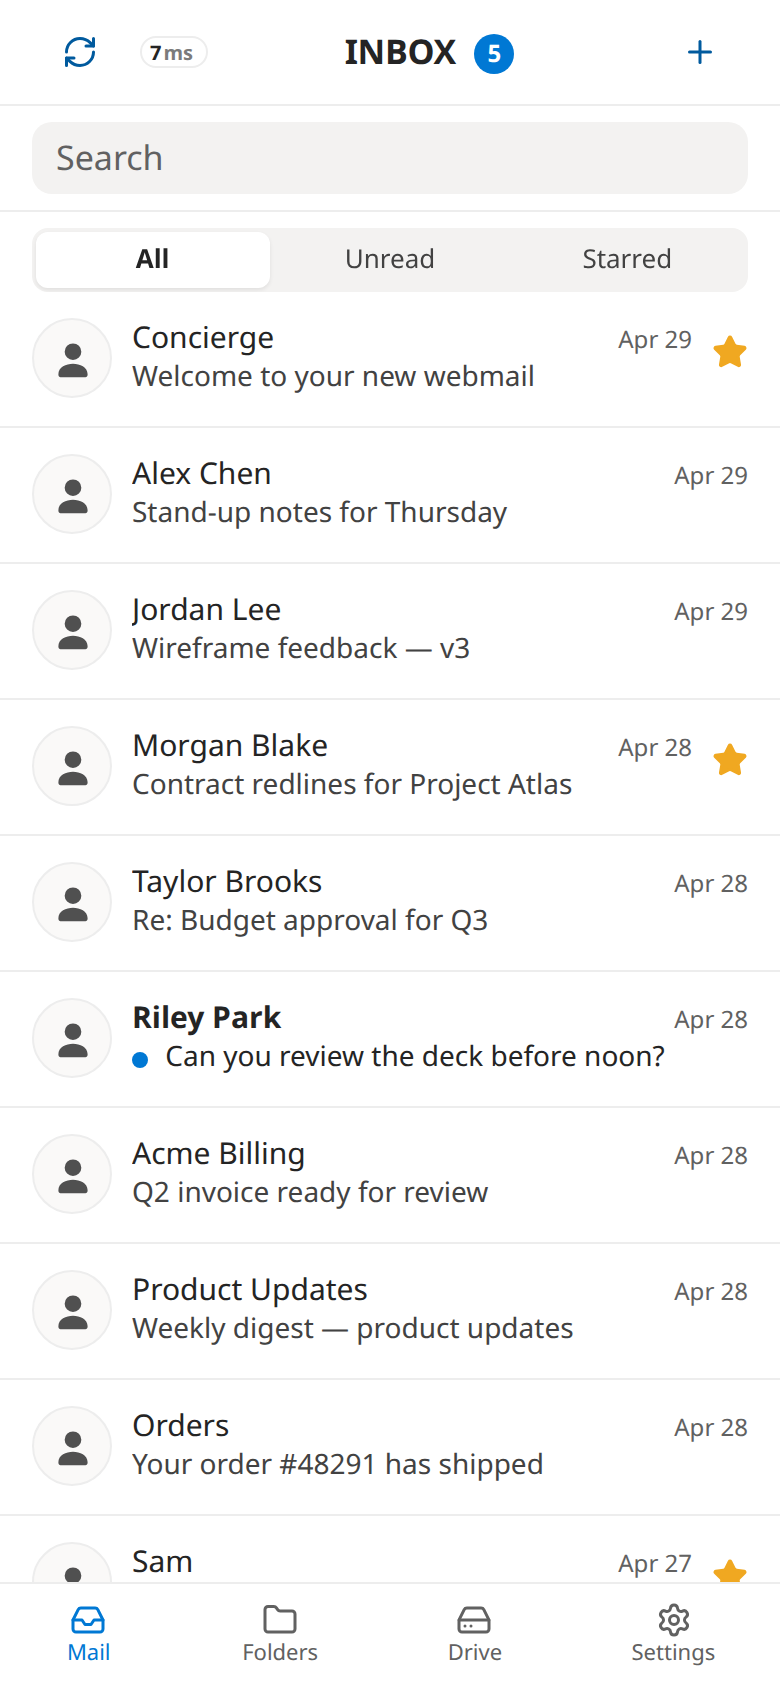
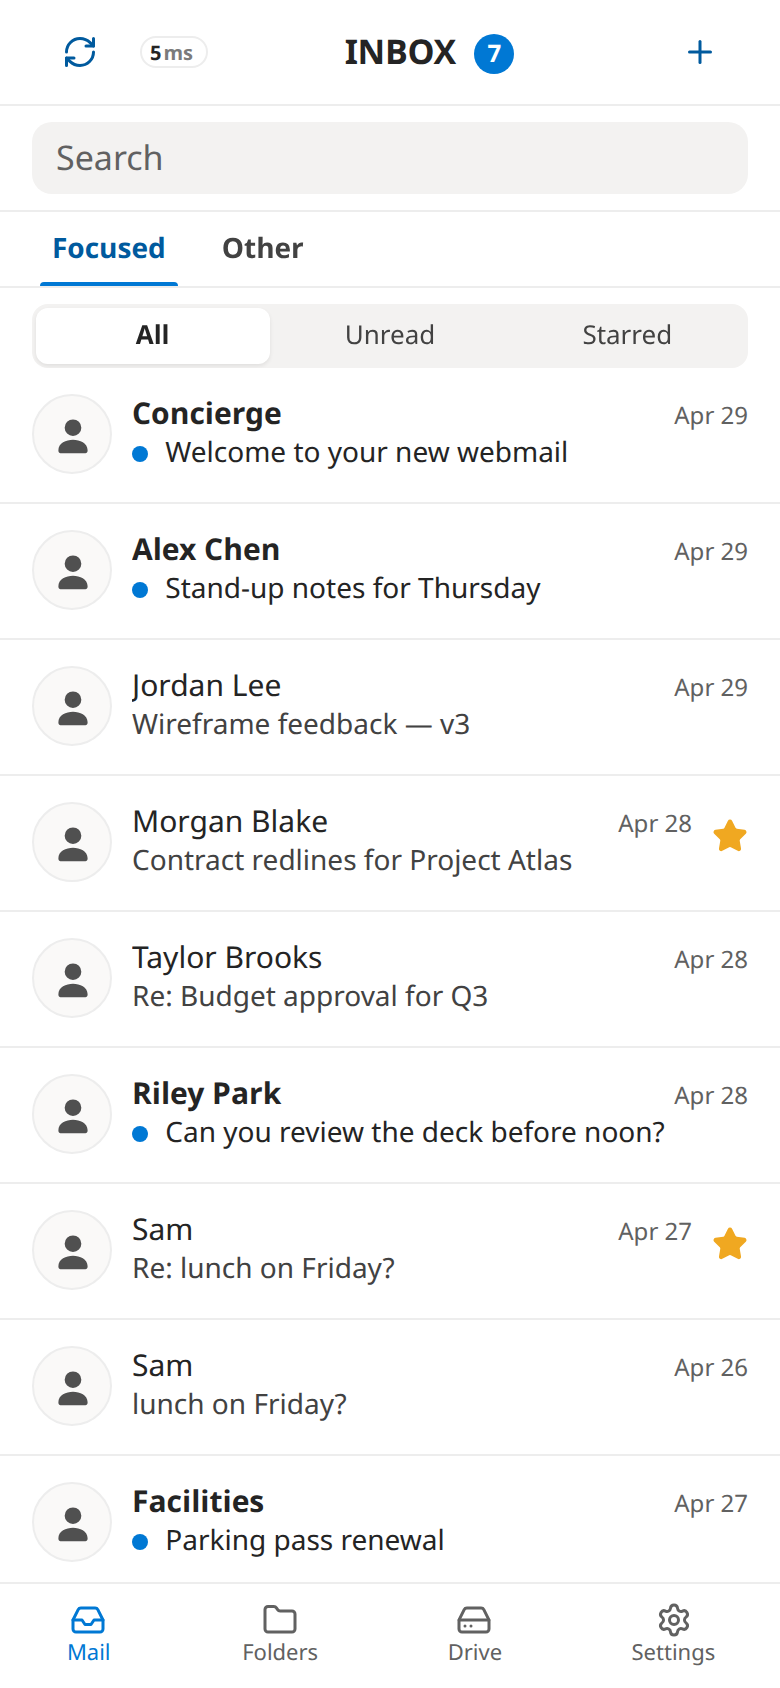
Outlook parity slice 19: mobile Focused/Other inbox tabs (#106)
* Outlook parity slice 19: mobile Focused/Other inbox tabs

Wire focused-inbox filtering into mobile InboxView with OWA-style tabs,
shared inboxTab setting, row test ids, Settings copy, e2e tests, and docs screenshot.

* Merge outlook-clone and refresh slice 19 docs/screenshots

Keep slice 18 follow-up flag work from outlook-clone; restore slice 19
README/OUTLOOK-PARITY/docs-screenshots entries; regenerate mobile inbox
and slice19 asset PNGs from Playwright mocks only.

---------

diff --git a/webmail/src/mobile/components/InboxView.svelte b/webmail/src/mobile/components/InboxView.svelte
@@ -16,7 +16,8 @@
     } from '../../lib/api';
     import { formatDate, senderShort, isTrackingEmail } from '../../lib/format';
     import { sortInboxClient, type InboxSortRanking } from '../../lib/sort-inbox-client';
-    import { settings } from '../../lib/settings.svelte';
+    import { settings, setInboxTab, isVipAddress } from '../../lib/settings.svelte';
+    import { filterMessagesByInboxTab } from '../../lib/focused-inbox';
     import Icon from '../../components/Icon.svelte';
     import Avatar from '../../components/Avatar.svelte';
     import SwipeableRow from './SwipeableRow.svelte';
@@ -413,6 +414,9 @@
         let base = mobileState.messages;
         if (f === 'unread') base = mobileState.messages.filter((m) => !m.flags.includes('\\Seen'));
         else if (f === 'starred') base = mobileState.messages.filter((m) => m.flags.includes('\\Flagged'));
+        if (showInboxTabs) {
+            base = filterMessagesByInboxTab(base, settings.inboxTab, { isVip: isVipAddress });
+        }
         if (f !== 'ai-sorted' || aiRankings.length === 0) return base;
         const indexFor = new Map<number, number>();
         aiRankings.forEach((r, i) => indexFor.set(r.uid, i));
@@ -432,6 +436,12 @@
 
     const currentFolder = $derived(
         mobileState.mailboxes.find((m) => m.path === mobileState.selectedPath)
+    );
+
+    const showInboxTabs = $derived(
+        !(mobileState.search || '').trim()
+        && mobileState.searchScope !== 'all'
+        && (mobileState.selectedPath || '').toUpperCase() === 'INBOX'
     );
 
     const unreadCount = $derived(
@@ -572,6 +582,27 @@
         </div>
     {/if}
 
+    {#if showInboxTabs}
+        <nav class="inbox-tabs" aria-label="Inbox view" data-testid="inbox-tabs">
+            <button
+                type="button"
+                class="inbox-tab"
+                class:active={settings.inboxTab === 'focused'}
+                aria-pressed={settings.inboxTab === 'focused'}
+                onclick={() => setInboxTab('focused')}
+                data-testid="inbox-tab-focused"
+            >Focused</button>
+            <button
+                type="button"
+                class="inbox-tab"
+                class:active={settings.inboxTab === 'other'}
+                aria-pressed={settings.inboxTab === 'other'}
+                onclick={() => setInboxTab('other')}
+                data-testid="inbox-tab-other"
+            >Other</button>
+        </nav>
+    {/if}
+
     <div class="segments" style="margin: 8px 16px 0;">
         {#each (settings.aiFeatures ? ['all','unread','starred','ai-sorted'] : ['all','unread','starred']) as f}
             <button
@@ -615,6 +646,24 @@
                 <p>{mobileState.messagesError}</p>
                 <button class="mbtn mbtn-secondary" onclick={() => refreshMessages(true)}>Retry</button>
             </div>
+        {:else if !mobileState.messagesLoading && filtered.length === 0 && showInboxTabs && mobileState.messages.length > 0}
+            <div class="mempty" data-testid="inbox-tab-empty">
+                <Icon name="inbox" size={40} />
+                <p>
+                    {#if settings.inboxTab === 'other'}
+                        Nothing in <strong>Other</strong> right now. Newsletters and bulk mail land here.
+                    {:else}
+                        Nothing in <strong>Focused</strong> right now.
+                    {/if}
+                </p>
+                <button
+                    type="button"
+                    class="mbtn mbtn-secondary"
+                    onclick={() => setInboxTab(settings.inboxTab === 'focused' ? 'other' : 'focused')}
+                >
+                    Switch to {settings.inboxTab === 'focused' ? 'Other' : 'Focused'}
+                </button>
+            </div>
         {:else if !mobileState.messagesLoading && mobileState.messages.length === 0}
             <div class="mempty">
                 <Icon name="inbox" size={40} />
@@ -651,7 +700,19 @@
                     leftColor="var(--danger)"
                 >
                     {@const isFresh = (() => { const t = Date.parse(msg.internalDate || msg.envelope.date || ''); return !Number.isNaN(t) && (Date.now() - t < 10 * 60 * 1000); })()}
-                    <div class="msg-row" class:unread={isUnread} class:fresh={isFresh} class:spy-tracked={isTracked} class:danger-1={dlevel === 1} class:danger-2={dlevel === 2} class:danger-3={dlevel === 3} class:danger-4={dlevel === 4} class:rule-running={ruleAnimUids.has(msg.uid)} class:rule-popping={ruleDoneUids.has(msg.uid)}>
+                    <div
+                        class="msg-row"
+                        data-testid={`msg-row-${msg.uid}`}
+                        class:unread={isUnread}
+                        class:fresh={isFresh}
+                        class:spy-tracked={isTracked}
+                        class:danger-1={dlevel === 1}
+                        class:danger-2={dlevel === 2}
+                        class:danger-3={dlevel === 3}
+                        class:danger-4={dlevel === 4}
+                        class:rule-running={ruleAnimUids.has(msg.uid)}
+                        class:rule-popping={ruleDoneUids.has(msg.uid)}
+                    >
                         <Avatar {email} {name} size={40} />
                         <div class="msg-body">
                             <div class="msg-top">
@@ -712,6 +773,42 @@
         flex-direction: column;
         min-height: 0;
         overflow: hidden;
+    }
+    .inbox-tabs {
+        flex: 0 0 auto;
+        display: flex;
+        gap: 0;
+        padding: 0 12px;
+        border-bottom: 1px solid var(--border-subtle);
+        background: var(--bg-surface);
+    }
+    .inbox-tab {
+        position: relative;
+        padding: 10px 14px 8px;
+        border: none;
+        background: transparent;
+        font: inherit;
+        font-size: 14px;
+        font-weight: 600;
+        color: var(--text-secondary);
+        cursor: pointer;
+        border-radius: 0;
+    }
+    .inbox-tab:active {
+        background: color-mix(in srgb, var(--accent) 8%, transparent);
+    }
+    .inbox-tab.active {
+        color: var(--accent-text);
+    }
+    .inbox-tab.active::after {
+        content: '';
+        position: absolute;
+        left: 8px;
+        right: 8px;
+        bottom: 0;
+        height: 2px;
+        border-radius: 2px 2px 0 0;
+        background: var(--accent);
     }
     .header-left {
         display: inline-flex;

diff --git a/webmail/test/e2e/outlook-mobile-focused-inbox.spec.ts b/webmail/test/e2e/outlook-mobile-focused-inbox.spec.ts
@@ -1,0 +1,63 @@
+import { test, expect } from '@playwright/test';
+import { mkdirSync } from 'node:fs';
+import { applyMocks, MOCK_USER, MOCK_PASS } from './fixtures';
+
+const SCREEN_DIR = 'test/screenshots';
+const ASSET_DIR = 'docs/assets/outlook-slice19';
+mkdirSync(SCREEN_DIR, { recursive: true });
+mkdirSync(ASSET_DIR, { recursive: true });
+
+async function loginMobile(page: import('@playwright/test').Page) {
+    await page.goto('/webmail/mobile/');
+    await page.waitForLoadState('networkidle');
+    await page.fill('input[type="email"]', MOCK_USER);
+    await page.fill('input[type="password"]', MOCK_PASS);
+    await page.click('button:has-text("Sign in")');
+    await expect(page.locator('.mheader h1:has-text("INBOX")')).toBeVisible();
+}
+
+test.beforeEach(async ({ page }) => {
+    await page.setViewportSize({ width: 390, height: 844 });
+    await applyMocks(page);
+});
+
+test('mobile INBOX shows Focused and Other tabs', async ({ page }) => {
+    await page.addInitScript(() => {
+        localStorage.setItem('webmail.theme', 'light');
+        localStorage.setItem('webmail.settings.v1', JSON.stringify({
+            aiFeatures: false,
+            density: 'comfortable',
+            listFilter: 'all',
+            inboxTab: 'focused',
+            useCustomLlm: false,
+            llm: { kind: 'openai', preset: '', apiKey: '', baseUrl: '', model: '' }
+        }));
+    });
+
+    await loginMobile(page);
+    await expect(page.getByTestId('inbox-tabs')).toBeVisible();
+    await expect(page.getByTestId('inbox-tab-focused')).toHaveClass(/active/);
+
+    await expect(page.getByTestId('msg-row-1001')).toBeVisible();
+    await expect(page.getByTestId('msg-row-999')).toBeVisible();
+    await expect(page.getByTestId('msg-row-1000')).not.toBeVisible();
+
+    await page.screenshot({ path: `${SCREEN_DIR}/48-mobile-inbox-focused-tab.png`, fullPage: true });
+    await page.screenshot({ path: `${ASSET_DIR}/48-mobile-inbox-focused-tab.png`, fullPage: true });
+
+    await page.getByTestId('inbox-tab-other').click();
+    await expect(page.getByTestId('inbox-tab-other')).toHaveClass(/active/);
+    await expect(page.getByTestId('msg-row-1000')).toBeVisible();
+    await expect(page.getByTestId('msg-row-1001')).not.toBeVisible();
+
+    await page.screenshot({ path: `${SCREEN_DIR}/49-mobile-inbox-other-tab.png`, fullPage: true });
+    await page.screenshot({ path: `${ASSET_DIR}/49-mobile-inbox-other-tab.png`, fullPage: true });
+});
+
+test('mobile Focused/Other tabs hide outside INBOX', async ({ page }) => {
+    await page.addInitScript(() => localStorage.setItem('webmail.theme', 'light'));
+    await loginMobile(page);
+    await page.locator('.nav-item:has-text("Folders")').click();
+    await page.locator('.ios-row').filter({ hasText: 'Sent' }).first().click();
+    await expect(page.getByTestId('inbox-tabs')).toHaveCount(0);
+});

diff --git a/webmail/test/e2e/docs-screenshots.spec.ts b/webmail/test/e2e/docs-screenshots.spec.ts
@@ -26,7 +26,8 @@ const ASSET15 = 'docs/assets/outlook-slice15';
 const ASSET16 = 'docs/assets/outlook-slice16';
 const ASSET17 = 'docs/assets/outlook-slice17';
 const ASSET18 = 'docs/assets/outlook-slice18';
-for (const d of [DOCS, ASSET1, ASSET2, ASSET3, ASSET5, ASSET6, ASSET7, ASSET8, ASSET9, ASSET10, ASSET11, ASSET12, ASSET13, ASSET14, ASSET15, ASSET16, ASSET17, ASSET18]) mkdirSync(d, { recursive: true });
+const ASSET19 = 'docs/assets/outlook-slice19';
+for (const d of [DOCS, ASSET1, ASSET2, ASSET3, ASSET5, ASSET6, ASSET7, ASSET8, ASSET9, ASSET10, ASSET11, ASSET12, ASSET13, ASSET14, ASSET15, ASSET16, ASSET17, ASSET18, ASSET19]) mkdirSync(d, { recursive: true });
 
 const baseSettings = {
     aiFeatures: false,
@@ -475,5 +476,19 @@ test.describe('docs mobile (390×844 @2x)', () => {
         await page.click('button:has-text("Sign in")');
         await expect(page.locator('.mheader h1:has-text("INBOX")')).toBeVisible();
         await shot(page, `${DOCS}/mobile-inbox.png`);
+    });
+
+    test('slice19 mobile focused tab', async ({ page }) => {
+        await page.addInitScript((blob) => {
+            localStorage.setItem('webmail.theme', 'light');
+            localStorage.setItem('webmail.settings.v1', blob);
+        }, seedSettings({ inboxTab: 'focused' }));
+        await page.goto('/webmail/mobile/');
+        await page.fill('input[type="email"]', MOCK_USER);
+        await page.fill('input[type="password"]', 'hunter2');
+        await page.click('button:has-text("Sign in")');
+        await expect(page.getByTestId('inbox-tab-focused')).toHaveClass(/active/);
+        await expect(page.getByTestId('msg-row-1000')).not.toBeVisible();
+        await shot(page, `${ASSET19}/48-mobile-inbox-focused-tab.png`);
     });
 });

diff --git a/webmail/src/mobile/components/SettingsView.svelte b/webmail/src/mobile/components/SettingsView.svelte
@@ -382,6 +382,12 @@
                 </div>
                 <Toggle checked={settings.groupThreads} label="Group threads" onToggle={() => setGroupThreads(!settings.groupThreads)} />
             </div>
+            <div class="ios-row">
+                <div class="toggle-info">
+                    <span class="row-label">Focused inbox</span>
+                    <span class="muted small">INBOX uses Focused and Other tabs (same as desktop). Your last tab is remembered.</span>
+                </div>
+            </div>
             <div class="ios-row toggle-row">
                 <div class="toggle-info">
                     <span class="row-label">Sounds</span>

diff --git a/webmail/docs/OUTLOOK-PARITY.md b/webmail/docs/OUTLOOK-PARITY.md
@@ -243,7 +243,7 @@ Testing: mocks/fixtures and Playwright; no live mailcow or real credentials.
 
 ---
 
-## Slice 18 (this PR)
+## Slice 18 (done in #105)
 
 - **`webmail/src/lib/message-follow-up.ts`**: OWA-style follow-up due presets (Today / Tomorrow / This week / No date).
 - **`message-follow-up.svelte.ts`**: `webmail.message-follow-up.v1` local due-date overlay; `\Flagged` on the server.
@@ -255,9 +255,18 @@ Testing: mocks/fixtures and Playwright; no live mailcow or real credentials.
 
 ---
 
+## Slice 19 (this PR)
+
+- **`webmail/src/mobile/components/InboxView.svelte`**: **Focused | Other** tabs on mobile INBOX (same rules as desktop via `focused-inbox.ts`); `data-testid` row ids for e2e.
+- **`settings.inboxTab`**: shared with desktop; persists across form factors.
+- Tests: Playwright (`outlook-mobile-focused-inbox.spec.ts`) against API mocks.
+- Screenshot: `webmail/docs/assets/outlook-slice19/48-mobile-inbox-focused-tab.png`.
+
+---
+
 ## Next planned slice
 
-**Dark mode / mobile** polish, or opt-in **AI thread summarise** (thread summary gated on `aiFeatures` + provider).
+**Mobile conversation reader** stack, **follow-up flags** on mobile, **dark mode** polish, or opt-in **AI thread summarise** (thread summary gated on `aiFeatures` + provider).
 
 ---
 

diff --git a/webmail/README.md b/webmail/README.md
@@ -125,6 +125,10 @@ Recent releases add Outlook-on-the-web behaviour without requiring AI:
 
 ![Follow-up today on message row](docs/assets/outlook-slice18/47-follow-up-today-row.png)
 
+- **Mobile Focused / Other** — the `/webmail/mobile/` inbox uses the same deterministic Focused vs Other split as desktop (shared `inboxTab` setting). Tabs hide during search and outside INBOX.
+
+![Mobile inbox Focused tab](docs/assets/outlook-slice19/48-mobile-inbox-focused-tab.png)
+
 ## Keyboard shortcuts (mail)
 
 Global shortcuts are listed under **Settings → General → Keyboard shortcuts** (press **?** in the inbox for the same list). Reading-pane placement:
